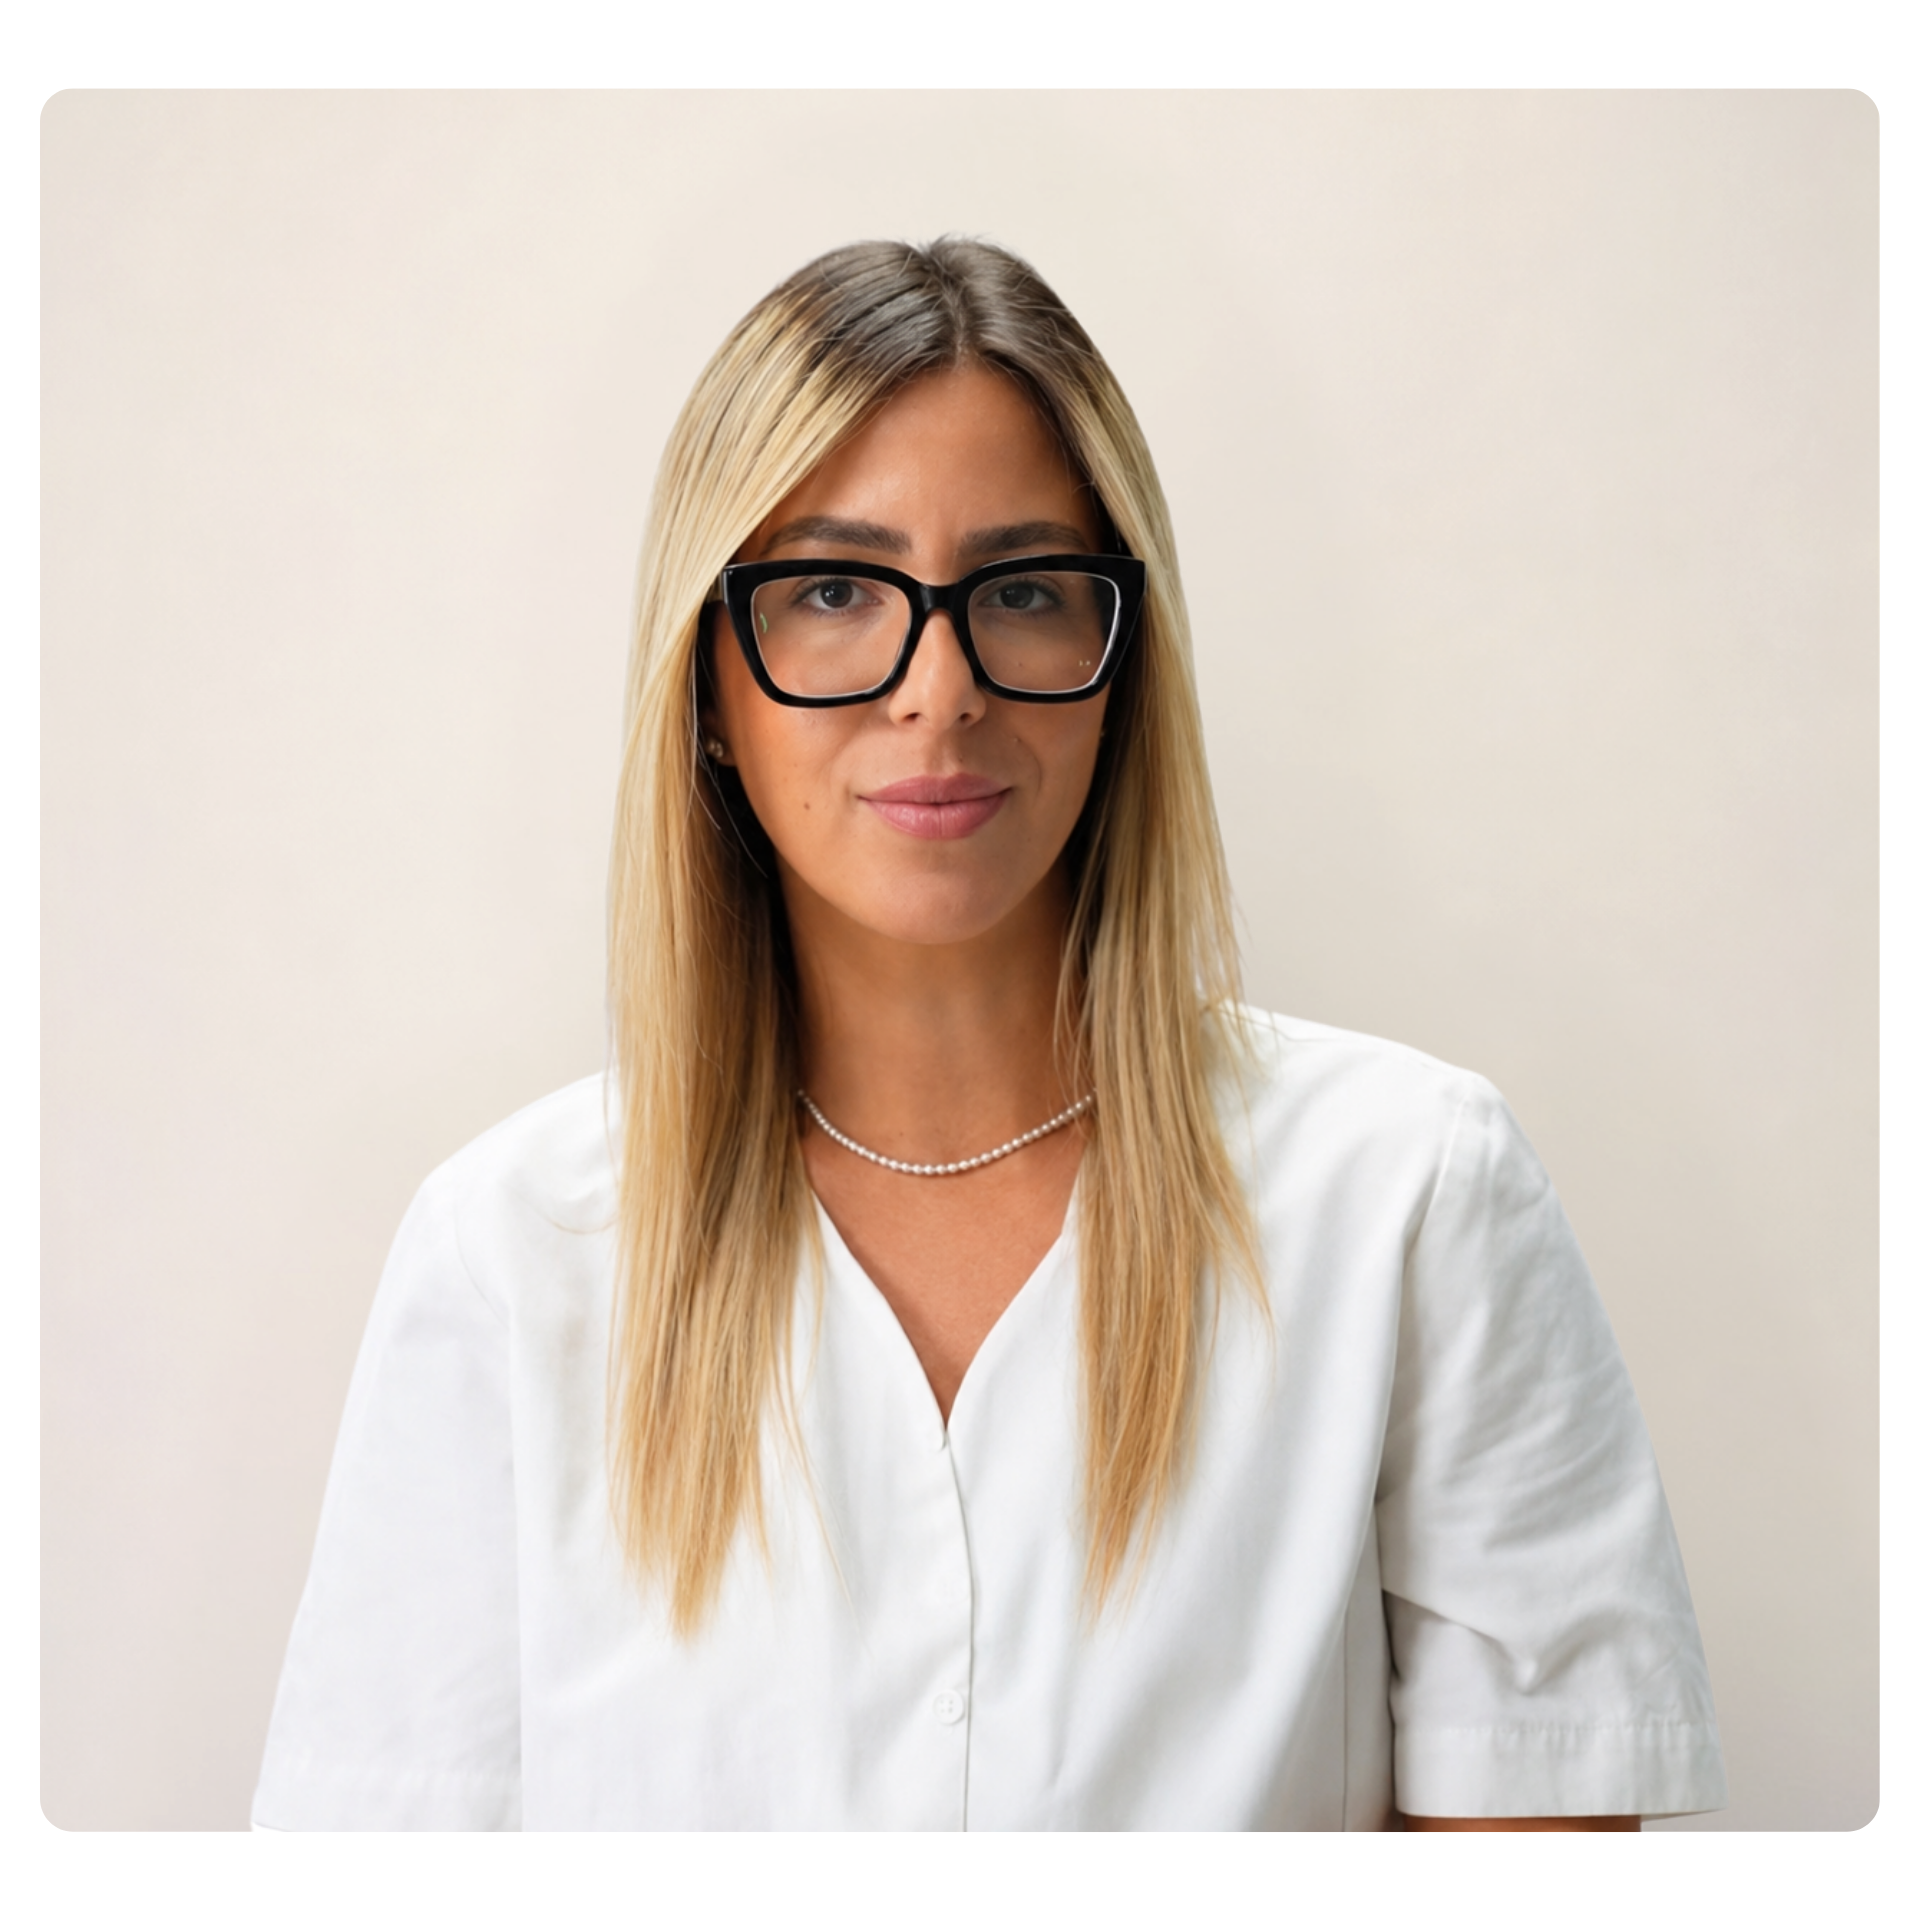
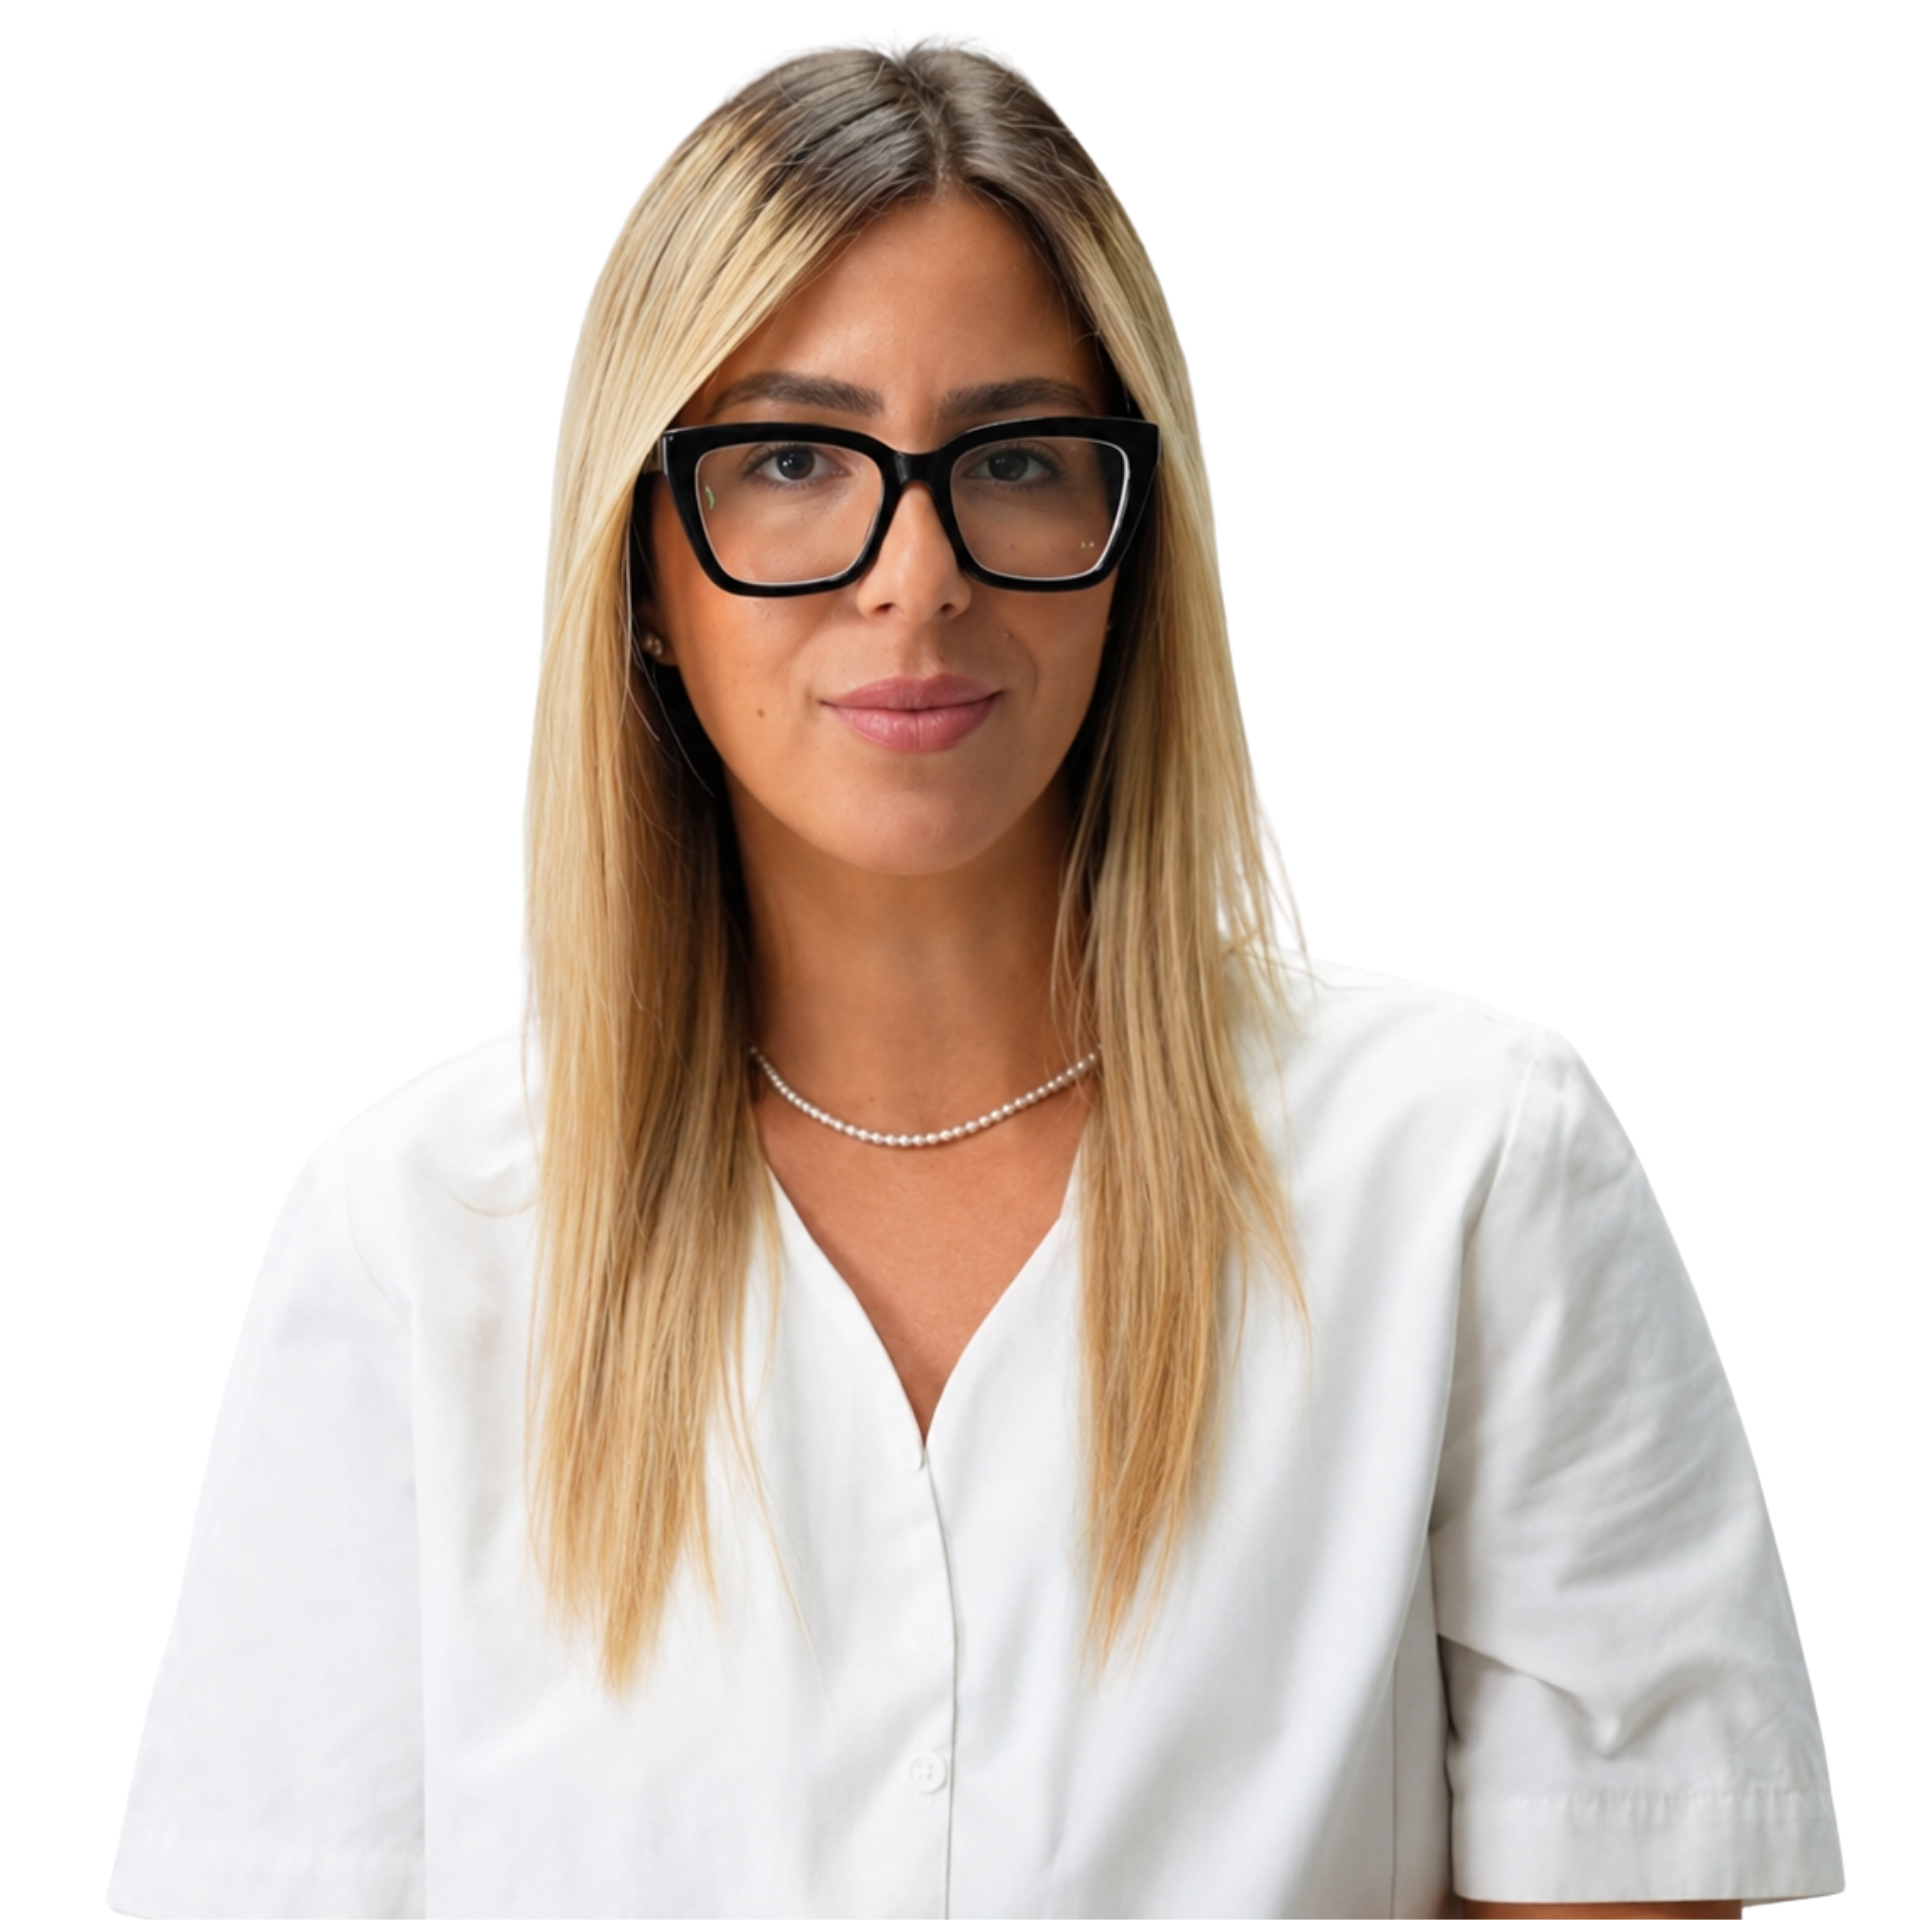
hofit smooth scroll added

diff --git a/sites/hofit-cosmetics.com/index.html b/sites/hofit-cosmetics.com/index.html
@@ -489,60 +489,36 @@
     .check-icon { color: #2e9e5b; font-size: 20px; font-weight: bold; }
     .cross-icon { color: #c0392b; font-size: 20px; font-weight: bold; }
 
-    /* Трансформація таблиці на мобільних в красиві RTL-картки */
+    /* Full table on mobile — scaled to fit */
     @media (max-width: 768px) {
-      .table-container { box-shadow: none; background: transparent; }
-      .comparison-table, .comparison-table thead, .comparison-table tbody, .comparison-table th, .comparison-table td, .comparison-table tr { 
-        display: block; 
-      }
-      .comparison-table thead { display: none; }
-      
-      .comparison-table tbody tr {
-        background: #fff;
-        border: 1.5px solid var(--beige-dark);
+      .table-container {
         border-radius: var(--radius);
-        margin-bottom: 20px;
-        padding: 16px;
         box-shadow: var(--shadow);
+        background: #fff;
+        overflow: hidden;
       }
-      .comparison-table tbody tr:hover { background: #fff; }
-      
+      .comparison-table {
+        font-size: 11px;
+        table-layout: fixed;
+        width: 100%;
+      }
+      .comparison-table thead tr th {
+        padding: 14px 8px;
+        font-size: 11px;
+        white-space: normal;
+        word-break: break-word;
+      }
+      .comparison-table thead th:first-child { width: 60%; }
+      .comparison-table thead th:nth-child(2),
+      .comparison-table thead th:nth-child(3) { width: 20%; }
       .comparison-table tbody tr td {
-        display: flex;
-        justify-content: space-between;
-        align-items: center;
-        padding: 12px 8px;
-        border-bottom: 1px solid var(--beige);
-        text-align: left;
+        padding: 14px 8px;
+        font-size: 11px;
+        word-break: break-word;
+        line-height: 1.45;
       }
-      .comparison-table tbody tr td:last-child { border-bottom: none; }
-      
-      .comparison-table tbody tr td:first-child {
-        text-align: right;
-        font-weight: 600;
-        color: var(--brown);
-        font-size: 15px;
-        border-bottom: 2px solid var(--beige-dark);
-        padding-bottom: 10px;
-        margin-bottom: 4px;
-      }
-      
-      .comparison-table tbody tr td:nth-child(2)::before {
-        content: "קוסמטיקס חופית:";
-        font-weight: 600;
-        color: var(--brown-light);
-      }
-      .comparison-table tbody tr td:nth-child(3)::before {
-        content: "רוב הקליניקות:";
-        font-weight: 400;
-        color: #777;
-      }
-      
-      .comparison-table tbody tr td.highlighted {
-        background: var(--beige);
-        border-radius: 6px;
-        padding-inline: 12px;
-      }
+      .comparison-table tbody tr td:first-child { text-align: right; }
+      .check-icon, .cross-icon { font-size: 16px; }
     }
 
     /* ─── TESTIMONIALS ───────────────────────────────────────────── */
@@ -1521,26 +1497,52 @@
 <section class="brand-story brown-bg" id="about">
   <div class="container">
     <h2 class="title reveal">אודותי</h2>
-    <div class="bs-grid">
+    
+    <!-- Флекс-контейнер с выравниванием и gap между фото и текстом -->
+    <div class="bs-grid" style="display: flex; flex-wrap: wrap-reverse; justify-content: center; gap: 40px; align-items: center; max-width: 1100px; margin: 0 auto;">
 
-      <div class="bs-text reveal-right">
+      <!-- Блок с текстом (flex: 1 позволяет ему занимать оставшееся пространство) -->
+      <div class="bs-text reveal-right" style="direction: rtl; text-align: right; flex: 1; min-width: 280px;">
+        <!-- Этот текст виден всегда -->
         <p>נעים מאוד, אני חופית — טכנאית לייזר ומומחית לטיפולי עור עם ניסיון של כ-4 וחצי שנים בתחום האסתטיקה, אמא ל-3 ילדים ואישה שחיה ונושמת את עולם היופי והטיפוח.</p>
-        <p>גדלתי בתוך עולם הקוסמטיקה והאסתטיקה, כשאמא שלי עוסקת בתחום כבר מעל 35 שנה, כך שמגיל צעיר הקליניקות היו עבורי ממש בית. מתוך אהבה גדולה לתחום והרצון לעזור לנשים וילדות להרגיש יפות, בטוחות וזוהרות בעור שלהן — בחרתי להפוך את התשוקה שלי למקצוע.</p>
-        <p>With השנים הבנתי עד כמה המודעות של נערות וילדות לטיפוח ואסתטיקה גדלה, וכמה חשוב להעניק להן יחס מקצועי, עדין ומותאם לגיל שלהן. לכן, אחד הדברים שהכי חשובים לי בקליניקה הוא לגרום לכל ילדה ונערה להרגיש בנוח, בטוחה ויפה — תוך שמירה על תוצאות טבעיות והתאמה אישית לכל אחת.</p>
-        <p>את הדרך שלי התחלתי בקליניקה קטנה של 10 מטר יחד עם אמא שלי, ולאורך השנים, עם התמדה, השקעה ואהבה אמיתית למקצוע — זכיתי לעבור לקליניקת החלומות שלי ❤</p>
-        <a href="https://wa.me/972542186634" class="btn-brown" target="_blank" rel="noopener">קביעת תור ישיר</a>
+        <p>גדלתי בתוך עולם הקוסมטיקה והאסתטיקה, כשאמא שלי עוסקת בתחום כבר מעל 35 שנה, כך שמגיל צעיר הקлиניקות היו עבורי ממש בית. מתוך אהבה גדולה לתחום והרצון לעזור לנשים וילדות להרגיש יפות, בטוחות וזוהרות בעור שלהן — בחרתי להפוך את התשוקה שלי למקצוע.</p>
+        
+        <!-- Скрытая часть текста -->
+        <div id="more-text" style="display: none; margin-top: 1em;">
+          <p>עם השנים הבנתי עד כמה המודעות של נערות וילדות לטיפוח ואסתטיקה גדלה, וכמה חשוב להעניק להן יחס מקצועי, עדין ומותאם לגיל שלהן. לכן, אחד הדברים שהכי חשובים לי בקליניקה הוא לגרום לכל ילדה ונערה להרגיש בנוח, בטוחה ויפה — תוך שמירה על תוצאות טבעיות והתאמה אישית לכל אחת.</p>
+          <p>את הדרך שלי התחלתי בקליניקה קטנה של 10 מטר יחד עם אמא שלי, ולאורך השנים, עם התמדה, השקעה ואהבה אמיתית למקצוע — זכיתי לעבור לקליניקת החלומות שלי ❤</p>
+        </div>
+
+        <!-- Кнопка קרא עוד -->
+        <button id="read-more-btn" class="btn-brown" style="cursor: pointer; border: none; font-family: inherit; margin-top: 15px;">קרא עוד</button>
       </div>
 
-      <div class="bs-img reveal-left">
-        <picture>
+      <!-- Блок с картинкой (увеличили max-width до 400px) -->
+      <div class="bs-img reveal-left" style="width: 100%; max-width: 400px; height: auto !important; overflow: visible !important; flex-shrink: 0; display: flex; justify-content: center;">
+        <picture style="width: 100%; height: auto !important; display: block; overflow: visible !important;">
           <source media="(max-width: 900px)" srcset="img/Mobile.png" />
-          <img src="img/Desktop.png" alt="חופית יחזקאל — מומחית לאסתטיקה" loading="lazy" />
+          <img src="img/Desktop.png" alt="חופית יחזקאל — מומחית לאסתטיקה" loading="lazy" style="width: 100%; height: auto !important; display: block; max-height: none !important; object-fit: contain;" />
         </picture>
       </div>
 
     </div>
   </div>
 </section>
+
+<!-- Скрипт для раскрытия текста -->
+<script>
+  document.getElementById('read-more-btn').addEventListener('click', function() {
+    const moreText = document.getElementById('more-text');
+    
+    if (moreText.style.display === "none") {
+      moreText.style.display = "block";
+      this.textContent = "הצג פחות";
+    } else {
+      moreText.style.display = "none";
+      this.textContent = "קרא עוד";
+    }
+  });
+</script>
 
 <section class="eos-section">
   <div class="container">
